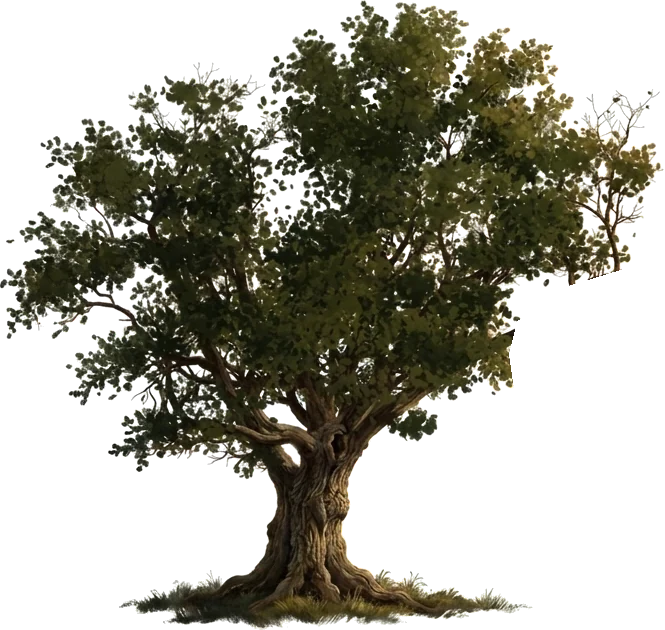
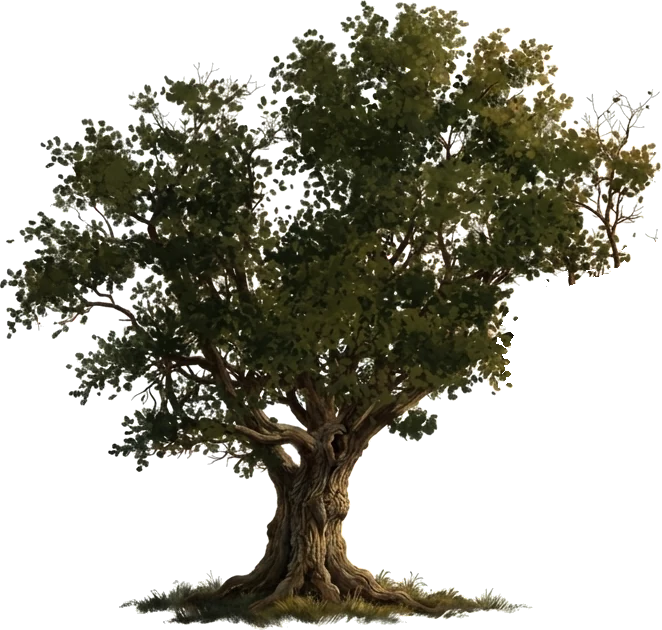
Level 3's oak: the crown ends in leaf-sized clumps where the limb was removed, no straight cuts (build 168)
Claude-Session: https://claude.ai/code/session_017HrTSF6HHp7YV8LH8vZT5B

diff --git a/index.html b/index.html
@@ -83,7 +83,7 @@ body.portrait #rot{display:block}
     <button class="btn" id="again">Walk again</button>
   </div>
   <button id="snd" aria-label="Sound on or off">♪</button>
-  <div id="build">build 167 · Nov 16 2026</div>
+  <div id="build">build 168 · Nov 16 2026</div>
 </div></div>
 <div id="rot">Turn your phone sideways for a bigger picture</div>
 <script>
@@ -1074,7 +1074,7 @@ const runNow = () => G.ears || !RUNP.ready ? [RUN, RUN_META] : [RUNP, RUNP_META]
 function coverEars() { if (G.ears) return; if (P.run) poseChange(8, true); G.ears = true; }
 const CHR = [], PLI = [], OBS = [], EVA = [], STD = [], RUN = [], CHR_K = .52, RUN_STEP = RUN_META.vpx * CHR_K, RUNV = RUN_STEP * .4,   // the run at its video's own speed (24 frames a second)
    CHR_STEP = CHR_META.vpx * CHR_K, PLI_STEP = PLI_META.vpx * CHR_K, OBS_STEP = OBS_META.vpx * CHR_K;
-const PACK_V = 25;                          // bump when the .pack files change, so phones fetch the new ones
+const PACK_V = 26;                          // bump when the .pack files change, so phones fetch the new ones
 // a .pack file: 4 bytes = how many frames, 4 bytes per frame = its length, then the WebP frames end to end
 async function loadPack(name, into) {
   const res = await fetch('assets/' + name + '.pack?v=' + PACK_V); if (!res.ok) throw new Error('no ' + name);      // a missing pack is left out
@@ -2255,6 +2255,6 @@ document.getElementById('on2').onclick = () => SL.on ? go3() : go2();
 })();
 </script>
 <script src="slough.js?v=164"></script>
-<script src="hill.js?v=167"></script>
+<script src="hill.js?v=168"></script>
 </body>
 </html>

diff --git a/hill.js b/hill.js
@@ -173,7 +173,7 @@ const HL = (() => {
   // trunk's middle, ground = the row that stands on the field's edge (the grass at its foot goes a little below, behind
   // the road), tw = sunlit leaves that twinkle. It is toned a little darker here to sit in the game's quiet tones,
   // and has an all-dark copy for when the sky darkens. Until it has loaded, the code-drawn oak (bakeOak) stands in.
-  const OAK_META = { w: 665, h: 630, ax: 306.5, ground: 602, k: .86 };
+  const OAK_META = { w: 662, h: 630, ax: 306.5, ground: 602, k: .86 };
   // OAK_SIL: how far the painting is pulled toward one dark tone (owner, build 165: "Tone it down to slightly more silhouette"): 0 = the painting, 1 = a flat silhouette
   const OAK_SIL = .8;
   let OAKP = null, oakLoading = null;

diff --git a/story-lab.html b/story-lab.html
@@ -3,4 +3,4 @@
 <title>Pilgrim's Progress</title>
 <!-- The game moved to the main page in build 119. This page only sends old links (and Home Screen icons) on to it. -->
 <script>location.replace('./' + location.search + location.hash);</script>
-<p><a href="./">Pilgrim's Progress</a> <span id="build">build 167 · Nov 16 2026</span></p>
+<p><a href="./">Pilgrim's Progress</a> <span id="build">build 168 · Nov 16 2026</span></p>

diff --git a/CLAUDE.md b/CLAUDE.md
@@ -32,7 +32,7 @@ A gentle side-scrolling story walk for kids ages 7 to 10, following Bunyan's *Th
 ## Working with the owner
 
 - **Repo `Twhidbey/pilgrims-progress`, branch `main`. Pushing `main` publishes the game** (GitHub Pages, https://twhidbey.github.io/pilgrims-progress/, 1 to 2 minutes). Commit and push after every change, then tell the owner it is live; a phone may show an old copy, so suggest `?v=N`.
-- **Build stamp** (`id="build"`, bottom right): `build N · date` in `index.html` and `story-lab.html`. Bump N on **every** push that changes the game, so one number means one push. Keep the form `id="build">... build N` (the page's self-update reads it). **Currently build 167.** The two script tags at the end of `index.html` carry `?v=N` (`slough.js?v=`, `hill.js?v=`): set them to the build that last changed each file, so phones fetch the new copy. Several chats push at once: `git fetch` and rebase on `origin/main` just before pushing, and take the next number after whatever is there.
+- **Build stamp** (`id="build"`, bottom right): `build N · date` in `index.html` and `story-lab.html`. Bump N on **every** push that changes the game, so one number means one push. Keep the form `id="build">... build N` (the page's self-update reads it). **Currently build 168.** The two script tags at the end of `index.html` carry `?v=N` (`slough.js?v=`, `hill.js?v=`): set them to the build that last changed each file, so phones fetch the new copy. Several chats push at once: `git fetch` and rebase on `origin/main` just before pushing, and take the next number after whatever is there.
 - **SPEND AS LITTLE AS POSSIBLE (owner, build 106: "can you minimize spending - it's been pretty expensive for me last few days").** Video about 56 cents a try; a picture about 15 cents (`gemini-3-pro-image`); voice about a cent a line. **Before any paid call: say the cost and wait for a yes; keep the running total in `HANDOFF.md`.** Ways to save, in order: (1) do it in code first (breathing, sway, cloth and hair movement, small moves by warping a still, mirroring, tinting, reusing a figure); (2) build first and last frames from frames we already have; (3) draft pictures on `gemini-2.5-flash-image` (about a third of the price), the pro model only for the final; (4) show the owner a still before any video; (5) get two clips from one video (play backwards or back and forth); (6) write video prompts that pass the safety filter first time (no "sunk", "drowning", "thrashing", "desperate", "frightened"; say "thick sticky mud", "heaves", "cross and grumbling"); (7) a shorter video if the API offers one cheaper (not yet checked).
 - **Keep `CLAUDE.md` and `HANDOFF.md` updated after every change.** The repo is public: no names, emails or other personal details in notes, code or commits.
 - **Players:** kids 7 to 10, mostly on an iPhone. Gentle: no lives, no game over, read-aloud words, short simple sentences.
@@ -161,7 +161,7 @@ Plus a syntax check of `index.html`'s script, `slough.js` and `hill.js` (`new Fu
 
 **The wicket-gate, after Rembrandt (build 142).** Owner on build 139: "I like light on gate - bricks not doing it for me - something about the light - door: not a fan - mountains ... their elevation compared to wall is distracting - need artistic analysis especially regarding composition - think Rembrandt". What was wrong and what is kept now: (1) three lights fought (far light, lantern, door): ONE at a time: a small lantern until the door opens, then the light from within, which is the far light he has followed (behind the wall it only glows over the top; no disc in the sky); (2) a low wall with the ridge just above it made two level lines: the wall is high and runs out of the picture both ways; (3) bricks, or stones each lit as a tile: the light is ONE soft pool on a rough surface, the big stones (`STONES`) only faint differences in it with dark joints; (4) the door is planks, iron straps and a ring in a deep arch, and opens only a hand's breadth on a soft-edged light; (5) the gate stands in the right third; lantern, face and doorstep make one slanting line. Evening has come ("in process of time": **a departure, the book gives no time of day**). **Rules for any lit scene: one light at a time; light is a soft pool on a surface, never a pattern of lit tiles; never stack two level lines; let most of the picture be dark.** Not yet seen by the owner.
 
-**The opening (build 158; owner: "the tree at beginning needs redo - the color scheme too - like the green but we need beautiful and intriguing entry - think about the artist we are using - maybe a generated tree like slough but with leaves"; my proposal, agreed: "Let's go"):** John Martin's quiet side (*The Plains of Heaven*) before his terrible side: late golden afternoon (a sky from soft gold to a quiet blue-green, the field green-gold, the far hill pale violet-grey and harmless, a pale thread of smoke over it), and **a great oak in leaf where the ways cross**, grown by the Slough's own tree code with another seed (`SL.grow(27)`, `SL.ribbons`: exports added to `slough.js`, keep them; `bakeOak()`, `OAKL`): kin to the bare black oak of Level 2, but alive. **The owner on build 158's crown of big dabs in three greens: "That's an awful tree" (a cartoon). Build 160: ONE dark tone, as everywhere in the game: the oak is a silhouette like the Slough's, its leaves only a fine broken edge of small dabs in the same tone with sky showing through the crown, the low sun touching the far edge very faintly; the field and far hill were quietened too. Never paint a tree in several bright greens.** **Build 162 (owner, of the one-tone tree: "Tree bigger, leaves slightly sparser more varied, sunlight twinkling in leaves, think classic artistic rendering of tree from master painters - also color palette for opening scene can be tweaked to be more beautiful"):** the crown is painted as Claude Lorrain, Constable and Corot painted trees: many separate feathery pads at the ends of the boughs, each a cloud of small touches, sky between them and the limbs seen through; each pad dark beneath and a little lighter toward the low sun; pads differ in size and depth of tone; all close dark olives (still never bright green); a few hundred sunlit touches twinkle, each in its own time (`OAKL.tw`). The tree is bigger (`.88`). The palette is Claude's evening: gold at the horizon, peach above, a soft blue high up; a blue distance (ridge and far hill); a warm olive field. **THE PAINTED OAK (build 163; owner: "Getting better maybe adjust how trunk interacts with ground to be more realistic - more detail on trunk - can we have google image have a go at it?"):** one picture from the image model (about 15 cents, right first time), given a still of the code-drawn oak as its shape and asked for Claude Lorrain / Constable / Corot: a gnarled trunk with a hollow, roots spreading into rough grass, the long limb reaching right, feathery pads of leaves in dark olives. `assets/oak-leaf.webp` (cut from its white paper by distance from white, the paper's white taken out of the edge pixels), `OAK_META` (`ax`, `ground`, `k`, `tw` = sunlit leaves that twinkle), `loadOak()`, `OAKP`; toned a little darker in the game; the code-drawn oak (`bakeOak`) stands in until it loads. **Build 165 (owner: "Tone it down to slightly more silhouette, rerun to get whole tree"):** a second picture (about 15 cents, right first time) given the first and asked for the same tree whole, with white margin on all four sides (the first ran off its paper on the left); and the painting is pulled part of the way toward one dark tone (`OAK_SIL` .42: 0 = the painting, 1 = a flat silhouette), so the trunk's character and the leaf pads still read but it sits with the game's quiet shapes. **Build 166 (owner: "can you make it back into drawn tree using Google tree as template (remove that branch that sticks way off to the right) and made it slightly bigger so it doesn't interfere with heads of characters"):** the painting is now only the TEMPLATE. Its long right limb was taken out of the picture file; in `loadOak()` its outline is laid in as one dark tone with a faint trace of bark and roots (`OAK_SIL` .8), and the leaves are DRAWN over the crown in code: one small touch wherever the painting has a leaf (a jittered grid over its pixels), in close dark olives, lighter where the painting's leaf was sunlit; the lightest twinkle (`OAKP.tw`). Bigger (`OAK_META.k` .86, about 520 units tall) so the crown is well above the men's heads, and the camera stands a little further back on the plain and at the meeting (`z` .84 to .9) so the whole tree shows. a flat shade under it; a few leaves drifting down; an all-dark copy laid over it as the sky darkens. Its long limb reaches over the place where the two meet. Not yet seen by the owner.
+**The opening (build 158; owner: "the tree at beginning needs redo - the color scheme too - like the green but we need beautiful and intriguing entry - think about the artist we are using - maybe a generated tree like slough but with leaves"; my proposal, agreed: "Let's go"):** John Martin's quiet side (*The Plains of Heaven*) before his terrible side: late golden afternoon (a sky from soft gold to a quiet blue-green, the field green-gold, the far hill pale violet-grey and harmless, a pale thread of smoke over it), and **a great oak in leaf where the ways cross**, grown by the Slough's own tree code with another seed (`SL.grow(27)`, `SL.ribbons`: exports added to `slough.js`, keep them; `bakeOak()`, `OAKL`): kin to the bare black oak of Level 2, but alive. **The owner on build 158's crown of big dabs in three greens: "That's an awful tree" (a cartoon). Build 160: ONE dark tone, as everywhere in the game: the oak is a silhouette like the Slough's, its leaves only a fine broken edge of small dabs in the same tone with sky showing through the crown, the low sun touching the far edge very faintly; the field and far hill were quietened too. Never paint a tree in several bright greens.** **Build 162 (owner, of the one-tone tree: "Tree bigger, leaves slightly sparser more varied, sunlight twinkling in leaves, think classic artistic rendering of tree from master painters - also color palette for opening scene can be tweaked to be more beautiful"):** the crown is painted as Claude Lorrain, Constable and Corot painted trees: many separate feathery pads at the ends of the boughs, each a cloud of small touches, sky between them and the limbs seen through; each pad dark beneath and a little lighter toward the low sun; pads differ in size and depth of tone; all close dark olives (still never bright green); a few hundred sunlit touches twinkle, each in its own time (`OAKL.tw`). The tree is bigger (`.88`). The palette is Claude's evening: gold at the horizon, peach above, a soft blue high up; a blue distance (ridge and far hill); a warm olive field. **THE PAINTED OAK (build 163; owner: "Getting better maybe adjust how trunk interacts with ground to be more realistic - more detail on trunk - can we have google image have a go at it?"):** one picture from the image model (about 15 cents, right first time), given a still of the code-drawn oak as its shape and asked for Claude Lorrain / Constable / Corot: a gnarled trunk with a hollow, roots spreading into rough grass, the long limb reaching right, feathery pads of leaves in dark olives. `assets/oak-leaf.webp` (cut from its white paper by distance from white, the paper's white taken out of the edge pixels), `OAK_META` (`ax`, `ground`, `k`, `tw` = sunlit leaves that twinkle), `loadOak()`, `OAKP`; toned a little darker in the game; the code-drawn oak (`bakeOak`) stands in until it loads. **Build 165 (owner: "Tone it down to slightly more silhouette, rerun to get whole tree"):** a second picture (about 15 cents, right first time) given the first and asked for the same tree whole, with white margin on all four sides (the first ran off its paper on the left); and the painting is pulled part of the way toward one dark tone (`OAK_SIL` .42: 0 = the painting, 1 = a flat silhouette), so the trunk's character and the leaf pads still read but it sits with the game's quiet shapes. **Build 166 (owner: "can you make it back into drawn tree using Google tree as template (remove that branch that sticks way off to the right) and made it slightly bigger so it doesn't interfere with heads of characters"):** the painting is now only the TEMPLATE. Its long right limb was taken out of the picture file; in `loadOak()` its outline is laid in as one dark tone with a faint trace of bark and roots (`OAK_SIL` .8), and the leaves are DRAWN over the crown in code: one small touch wherever the painting has a leaf (a jittered grid over its pixels), in close dark olives, lighter where the painting's leaf was sunlit; the lightest twinkle (`OAKP.tw`). (Build 168, owner: "fix cut lines in tree - they do not look good": where the limb was taken out, the picture file's crown now ends in scattered leaf-sized clumps instead of straight cuts. **When cutting anything out of a painted tree, never leave a straight edge through foliage: break it into leaf-sized clumps.**) Bigger (`OAK_META.k` .86, about 520 units tall) so the crown is well above the men's heads, and the camera stands a little further back on the plain and at the meeting (`z` .84 to .9) so the whole tree shows. a flat shade under it; a few leaves drifting down; an all-dark copy laid over it as the sky darkens. Its long limb reaches over the place where the two meet. Not yet seen by the owner.
 
 **The hill is not shown at first (owner, build 167: "Maybe don't show mountain at first, just some foothills, the reveal will be cooler later"):** across the plain and the talk only a line of foothills stands in front of the far ridge (`reveal` 0); at "Do you see that hill?" the camera draws back and the hill, its village and its thread of smoke come out of the haze. **One light on everyone (owner, same build: "Characters are different tints: is that ok?"; my answer: no, the game's rule is one tint for all figures; Wiseman's warm tan was left over from when he was a stand-in):** Wiseman is now in nearly Christian's tone, only a little warmer (`wt`).
 
